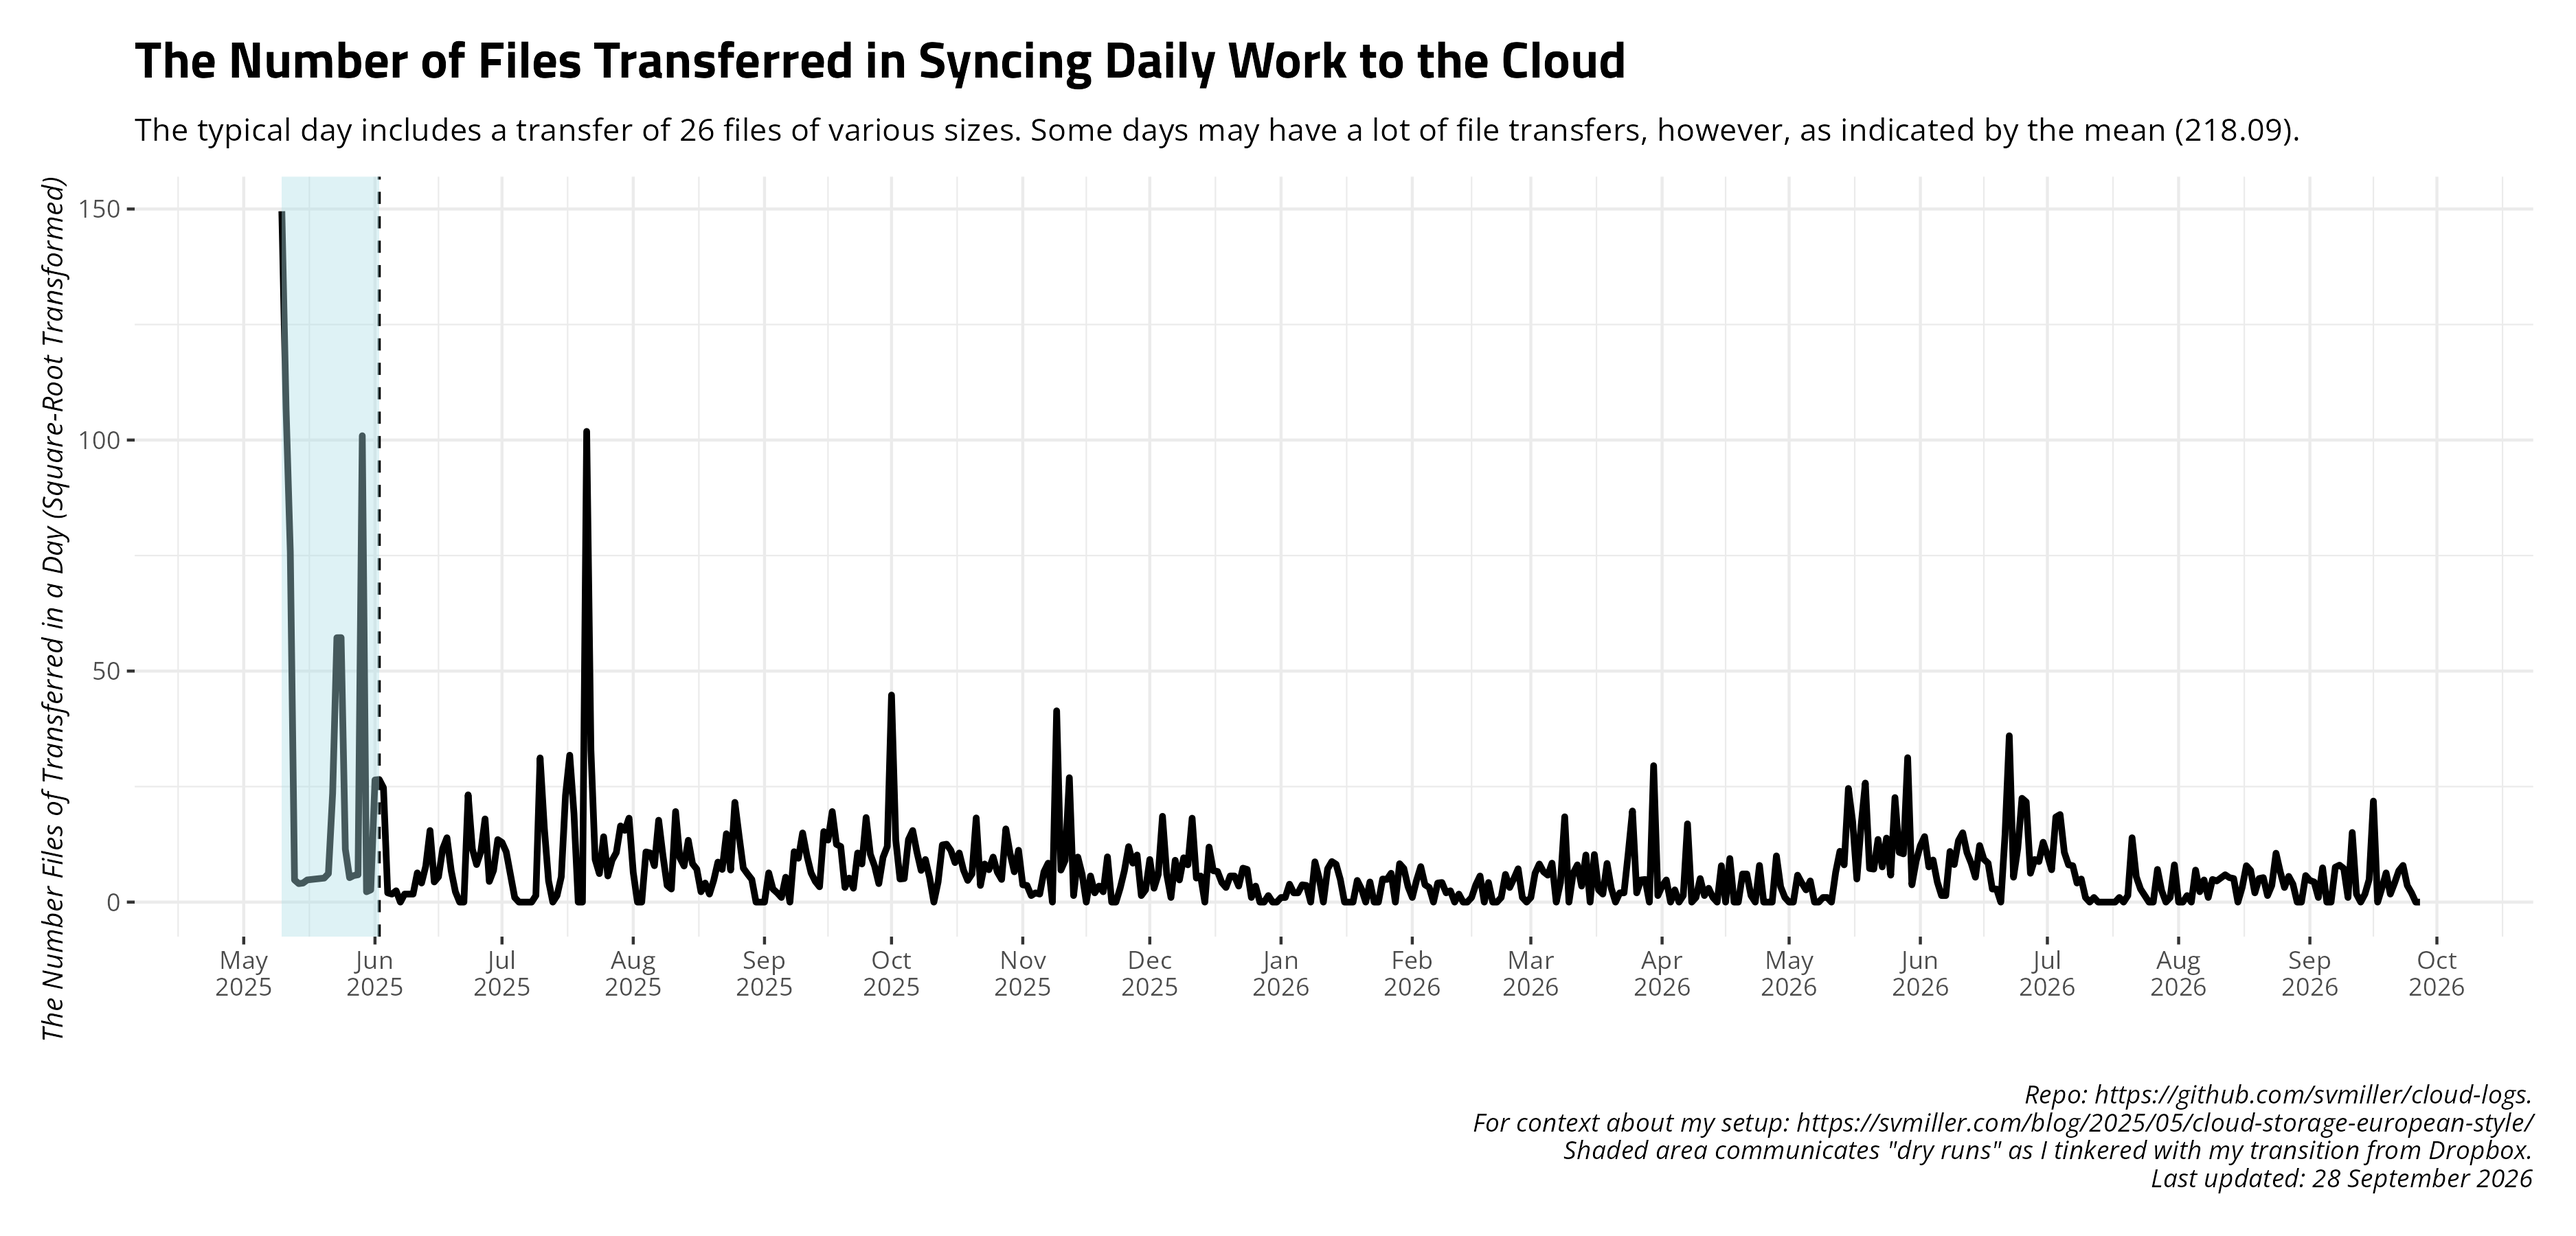
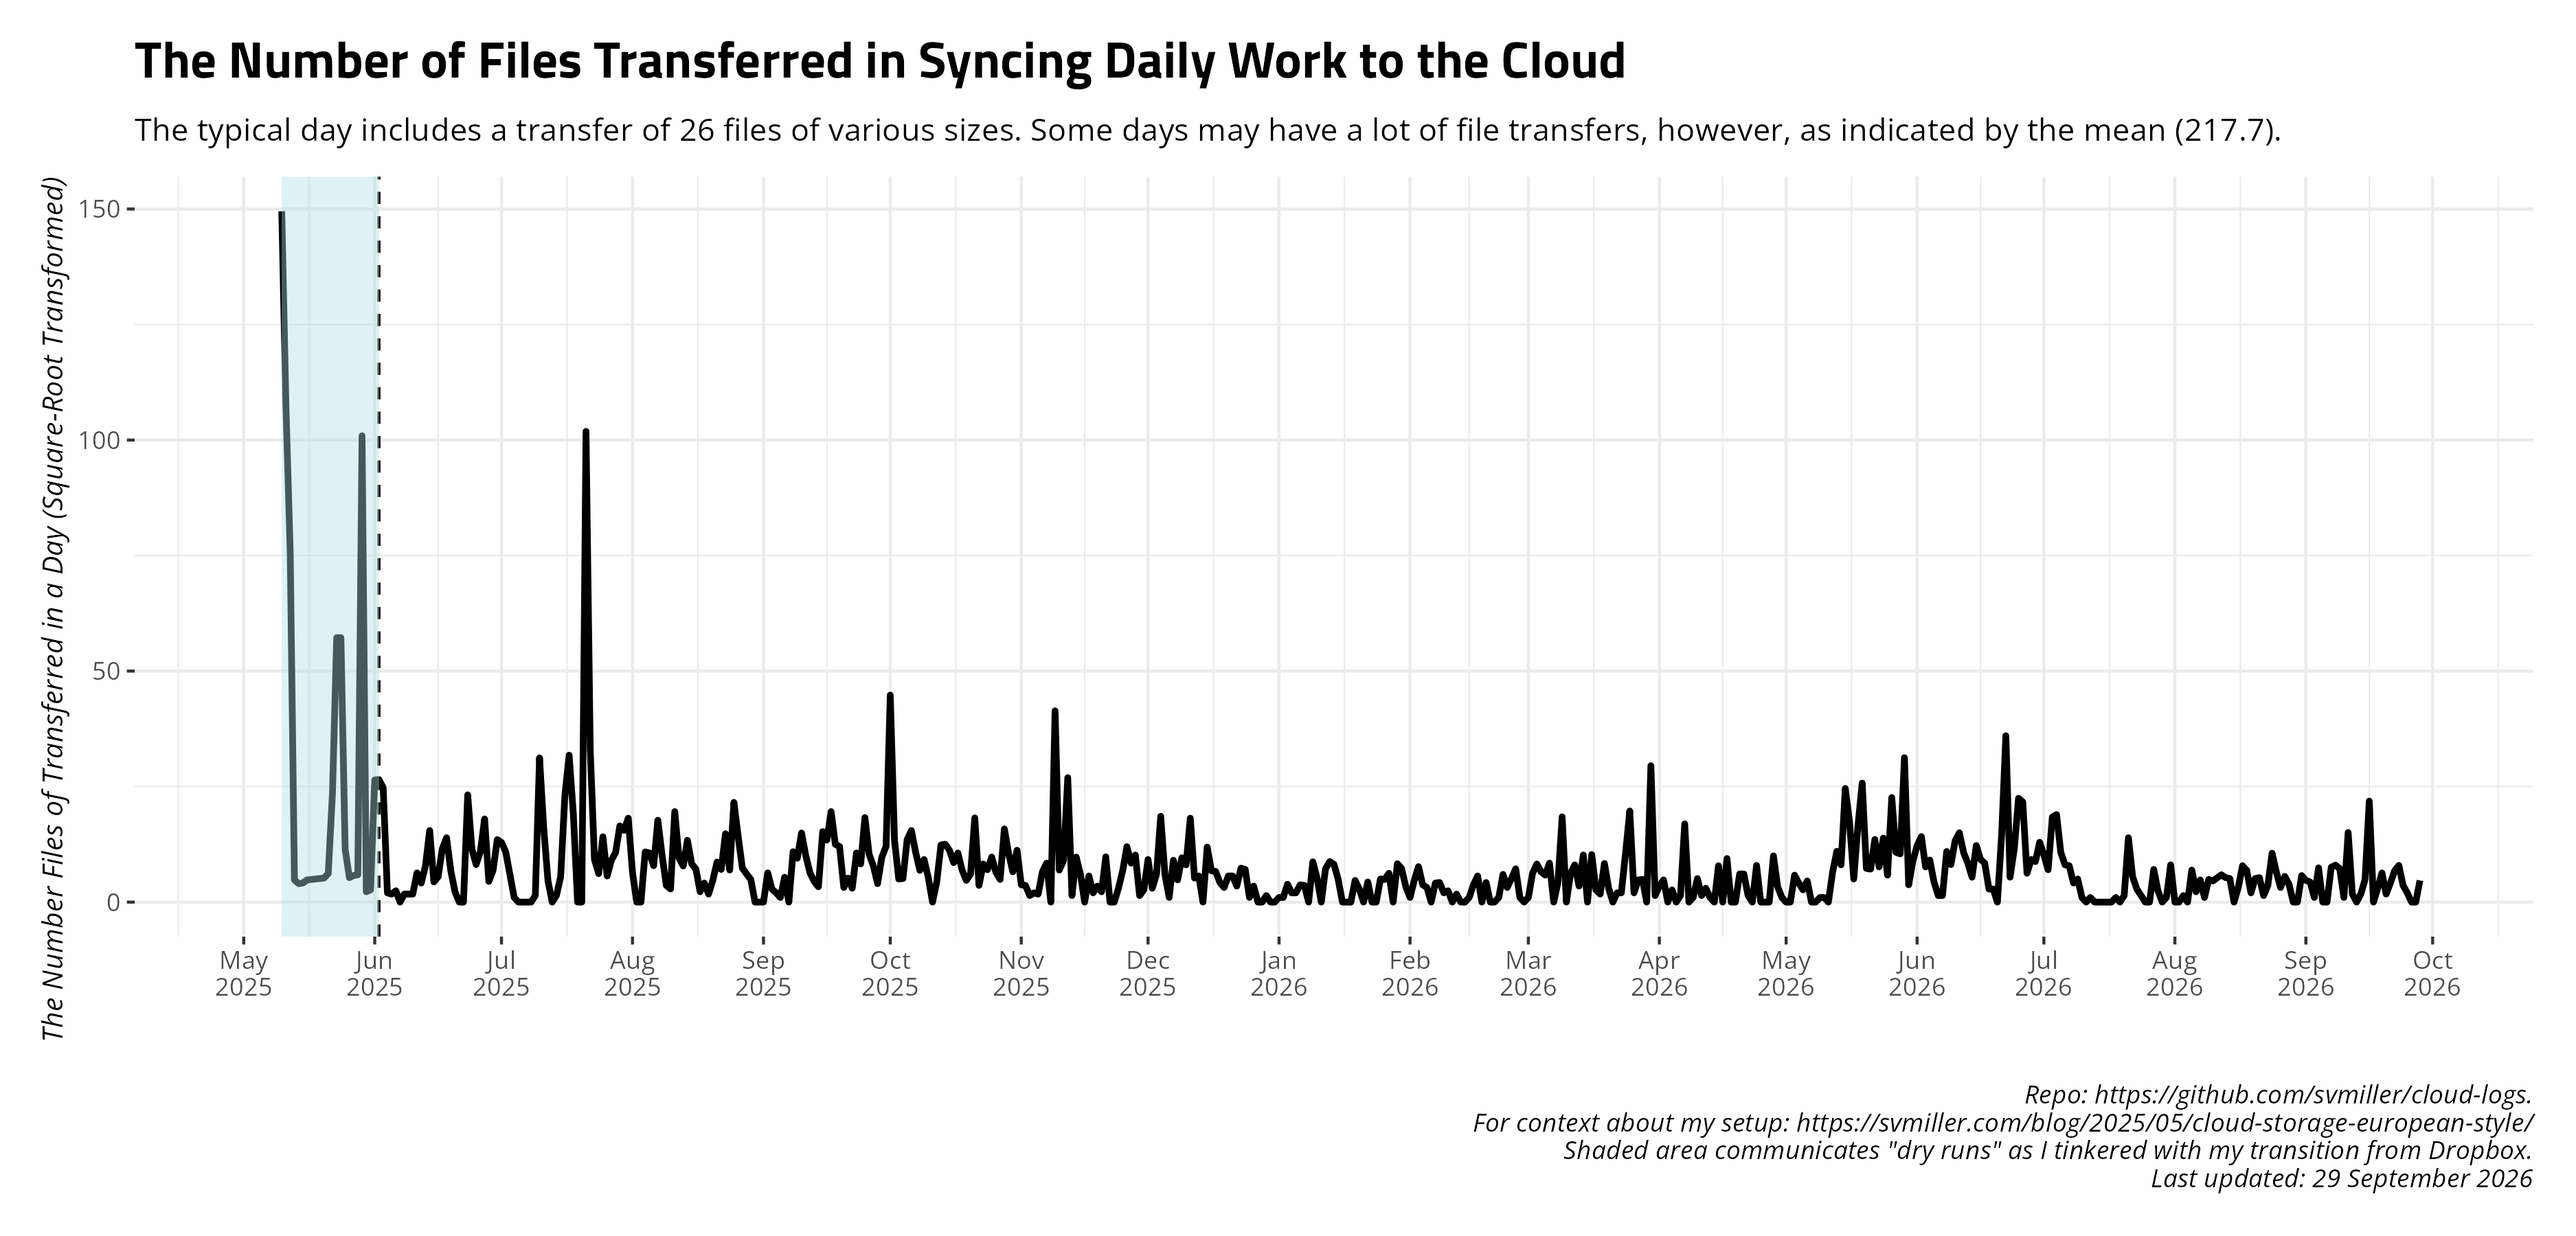
Date: 2026-09-29 09:00:36. Hi mom!

diff --git a/README.md b/README.md
@@ -27,17 +27,17 @@ and uploads to Github.
     #> # A tibble: 14 × 4
     #>    date       ftransfer stransfer   elapsed 
     #>    <date>         <dbl> <chr>       <chr>   
-    #>  1 2026-09-14         3 4.051 MiB   10m22.9s
-    #>  2 2026-09-15        24 124.357 MiB 31m50.0s
-    #>  3 2026-09-16       478 6.253 MiB   6m54.2s 
-    #>  4 2026-09-17         0 <NA>        20m59.4s
-    #>  5 2026-09-18         9 8.488 KiB   26m21.2s
-    #>  6 2026-09-19        40 3.669 MiB   4m53.6s 
-    #>  7 2026-09-20         3 3.192 KiB   4m35.2s 
-    #>  8 2026-09-21        17 2.403 MiB   26m34.9s
-    #>  9 2026-09-22        46 2.190 MiB   4m36.1s 
-    #> 10 2026-09-23        63 398.606 MiB 11m10.7s
-    #> 11 2026-09-24        13 38.466 MiB  4m36.8s 
-    #> 12 2026-09-25         4 5.267 MiB   4m38.0s 
-    #> 13 2026-09-26         0 <NA>        4m35.3s 
-    #> 14 2026-09-27         0 <NA>        4m49.5s
+    #>  1 2026-09-15        24 124.357 MiB 31m50.0s
+    #>  2 2026-09-16       478 6.253 MiB   6m54.2s 
+    #>  3 2026-09-17         0 <NA>        20m59.4s
+    #>  4 2026-09-18         9 8.488 KiB   26m21.2s
+    #>  5 2026-09-19        40 3.669 MiB   4m53.6s 
+    #>  6 2026-09-20         3 3.192 KiB   4m35.2s 
+    #>  7 2026-09-21        17 2.403 MiB   26m34.9s
+    #>  8 2026-09-22        46 2.190 MiB   4m36.1s 
+    #>  9 2026-09-23        63 398.606 MiB 11m10.7s
+    #> 10 2026-09-24        13 38.466 MiB  4m36.8s 
+    #> 11 2026-09-25         4 5.267 MiB   4m38.0s 
+    #> 12 2026-09-26         0 <NA>        4m35.3s 
+    #> 13 2026-09-27         0 <NA>        4m49.5s 
+    #> 14 2026-09-28        22 176.927 KiB 4m52.5s
